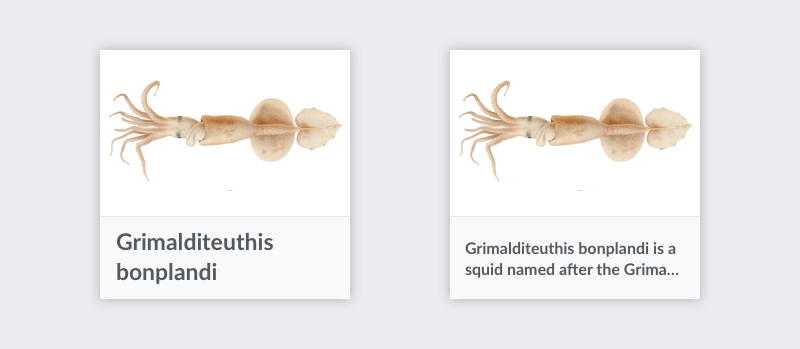
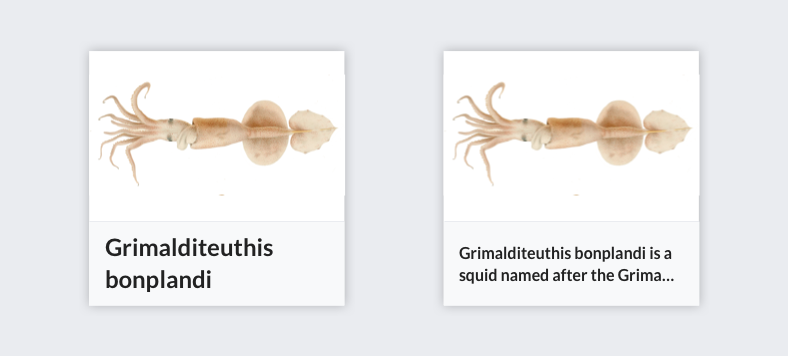
“Visual Style – Typography”: Use HiDPI typography-dynamic-text file

Changed region(s): [[0.5787, 0.1433, 0.9137, 0.8596], [0.0914, 0.1433, 0.3655, 0.8596], [0.3655, 0.3438, 0.3959, 0.4298]]

diff --git a/visual-style_typography.html b/visual-style_typography.html
@@ -96,7 +96,7 @@
 						<h3>Dynamic text</h3>
 						<p>Content will be available in multiple languages, and text length will vary for pieces of content across languages. Avoid designing interfaces that depend on certain expectations about text length.</p>
 						<figure class="figure figure--full">
-							<img src="img/visual-style/typography-dynamic-text.png" alt="Text shown at different font sizes depending on their length">
+							<img src="img/visual-style/typography-dynamic-text@2x.png" alt="Text shown at different font sizes depending on their length" role="img">
 							<figcaption class="figure__caption">Text shown at different font sizes depending on their length.</figcaption>
 						</figure>
 						<p>Here are few ways to tackle dynamic text:</p>
